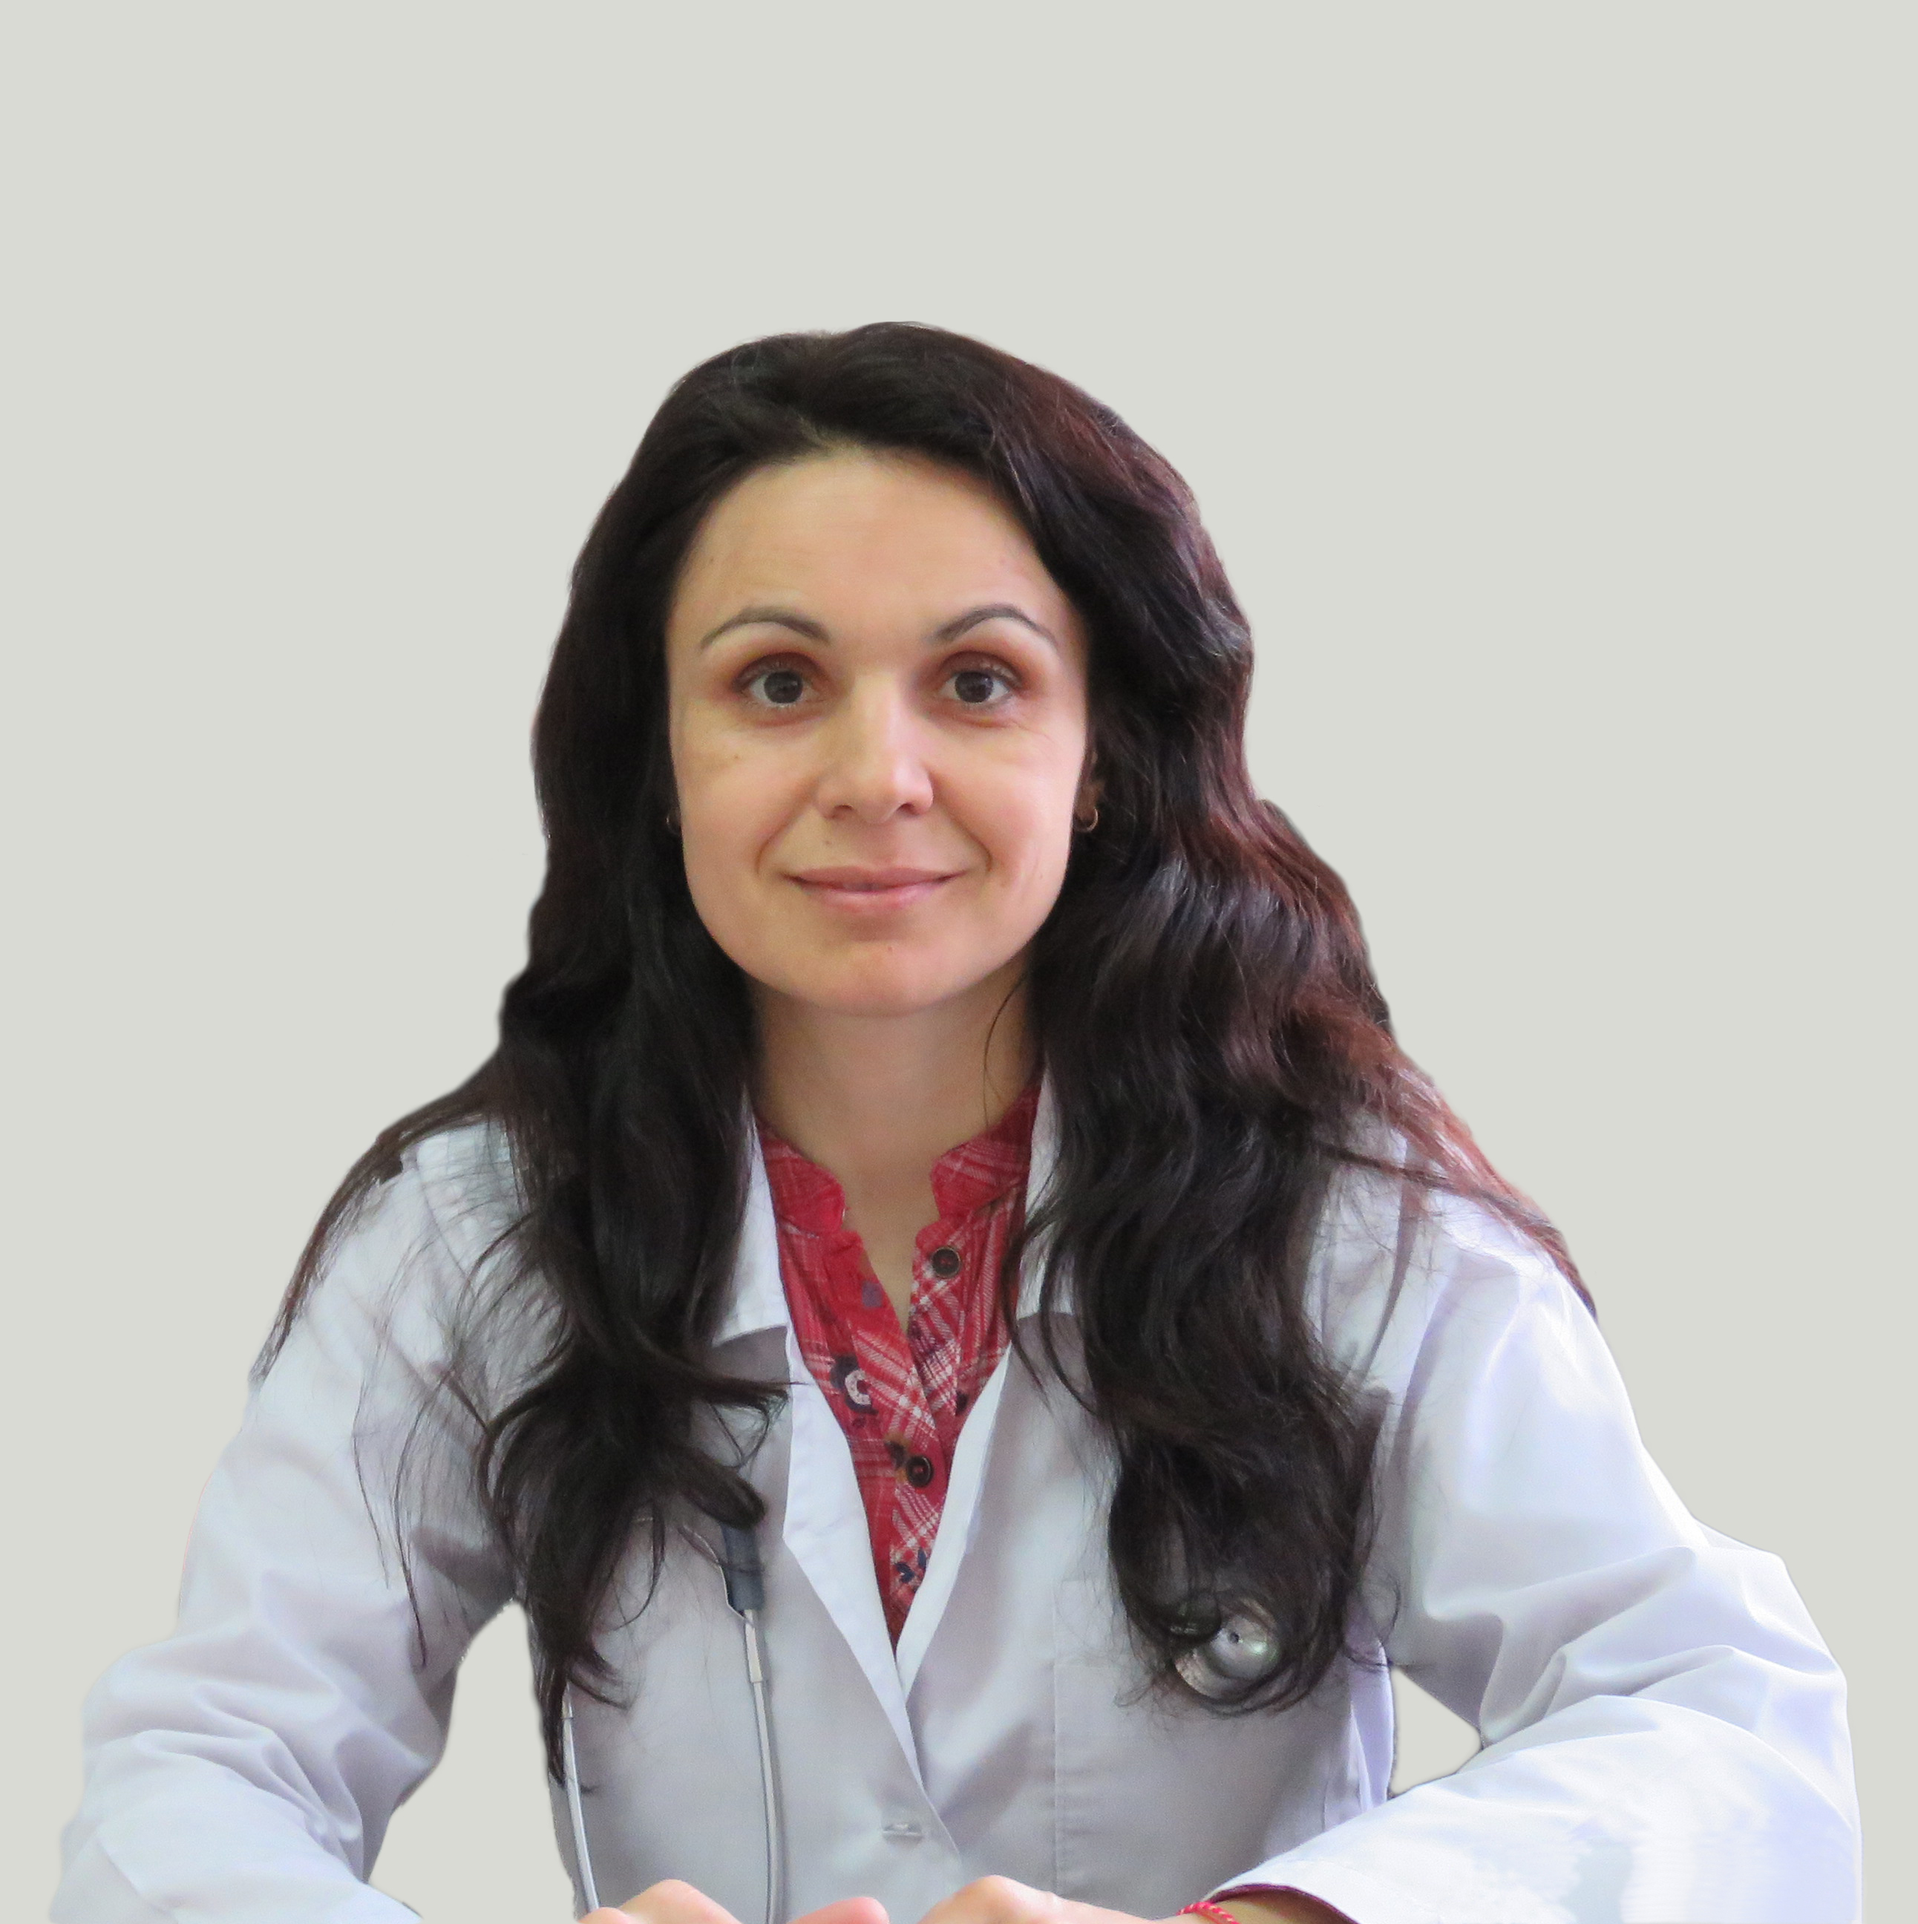
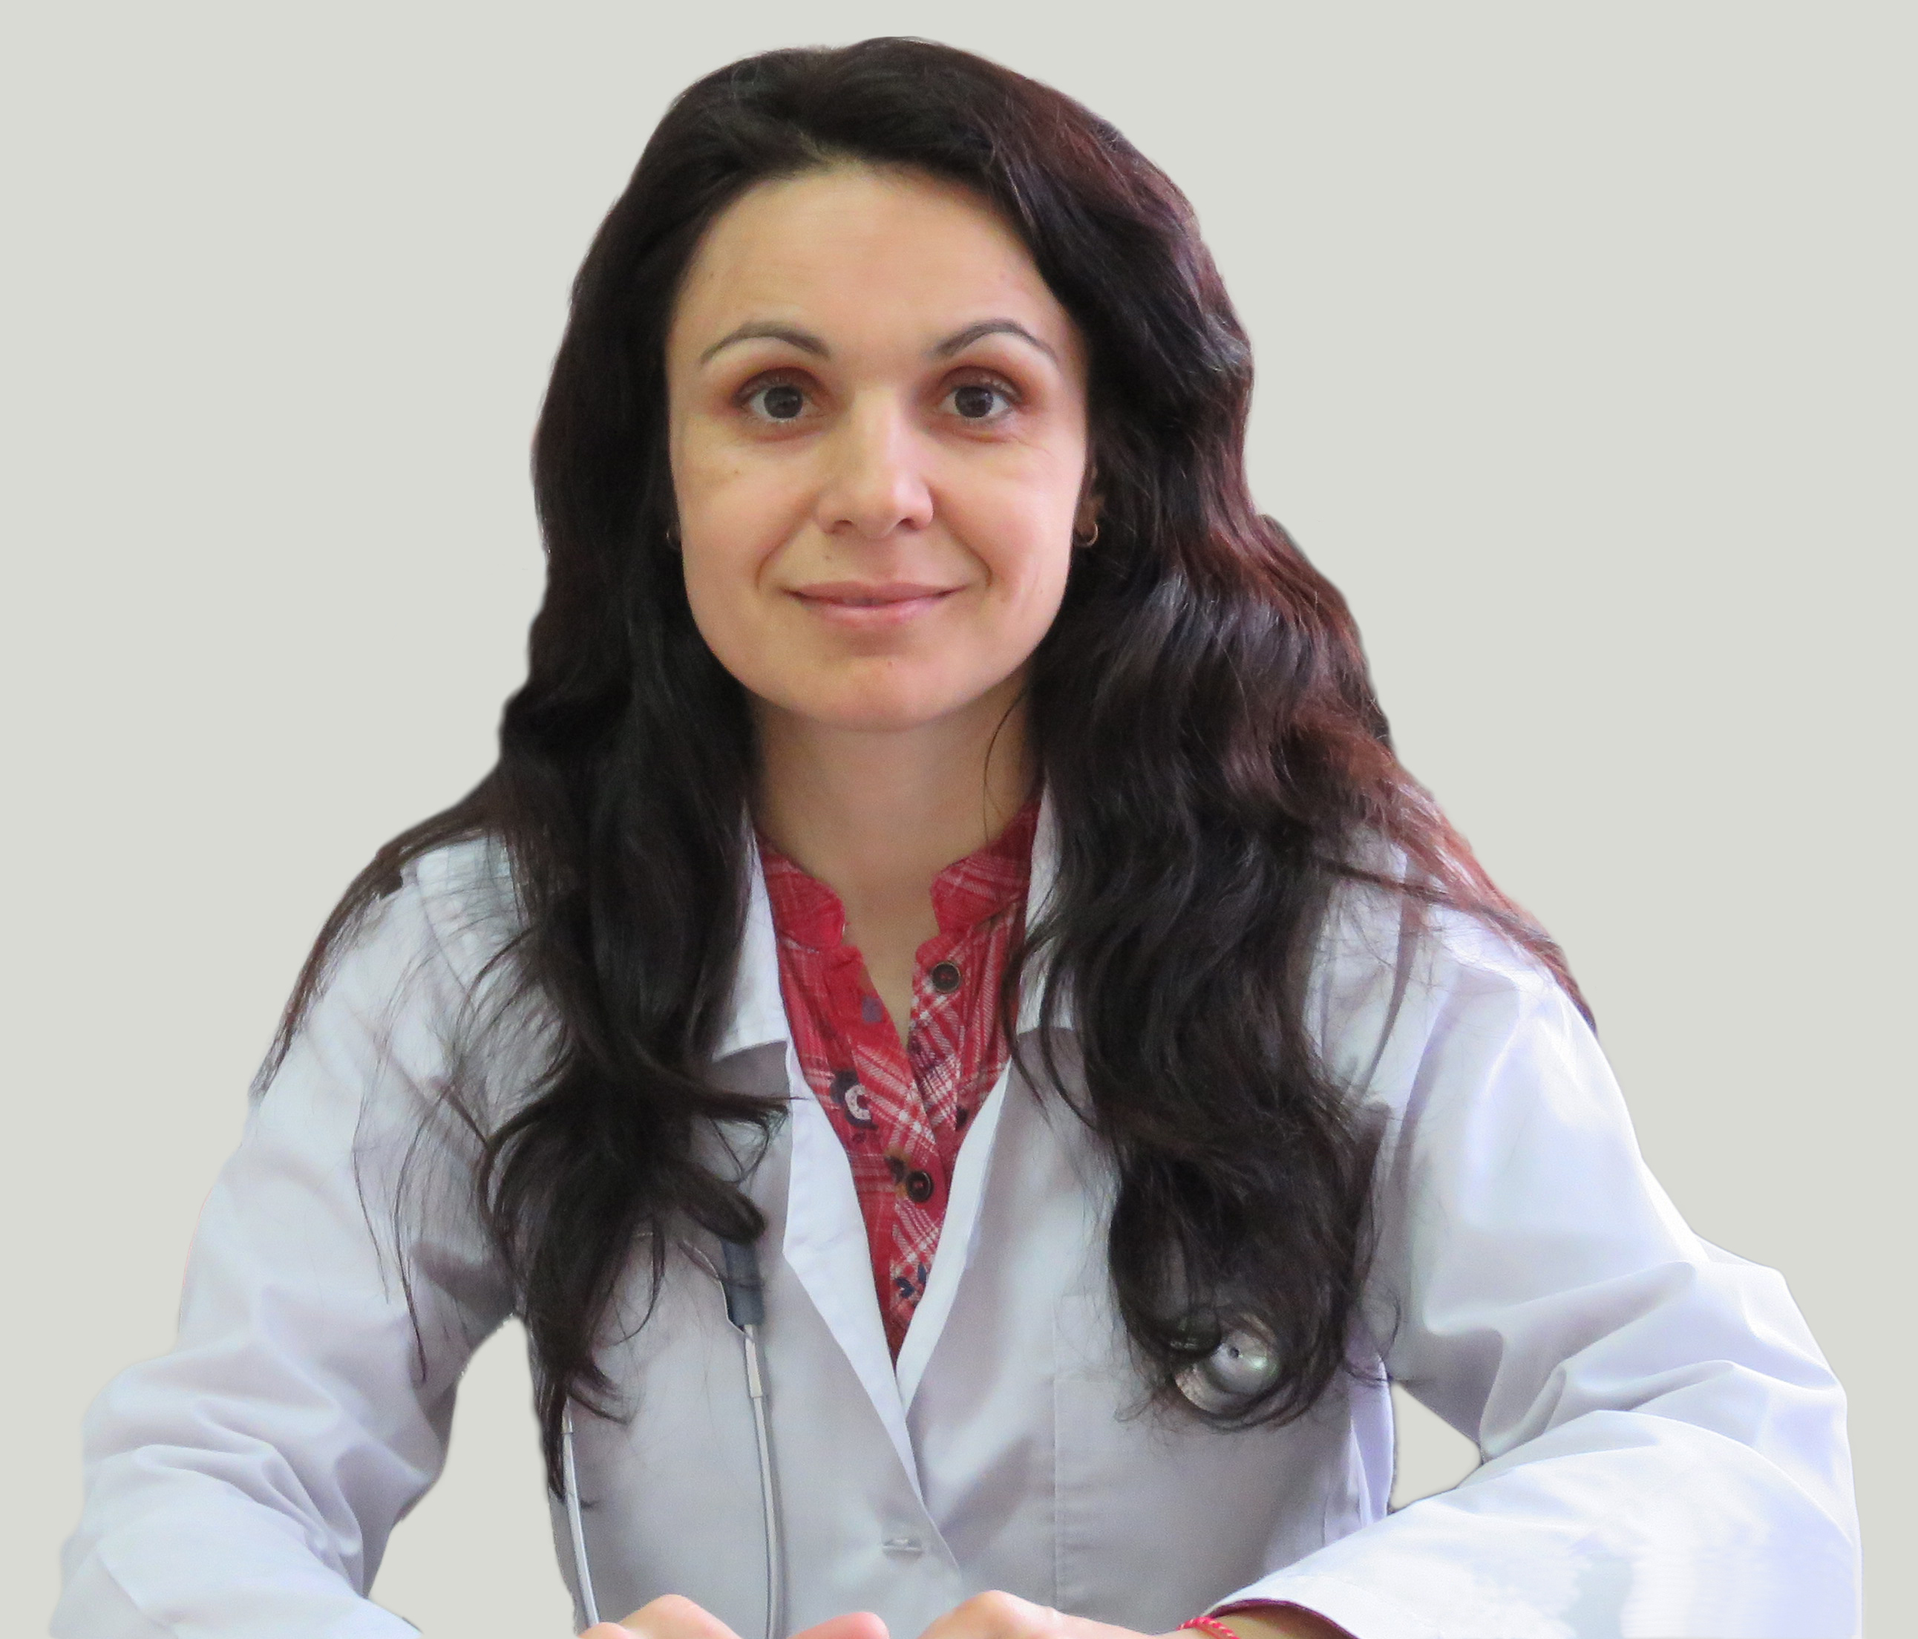
Update

Changed region(s): [[0.0619, 0.0, 0.9598, 1.0], [0.4954, 0.9688, 0.5573, 1.0], [0.3096, 0.9688, 0.3715, 1.0]]

diff --git a/index.html b/index.html
@@ -5,7 +5,7 @@
   <meta charset="utf-8">
   <meta content="width=device-width, initial-scale=1.0" name="viewport">
 
-  <title>Butterfly Bootstrap Template - Index</title>
+  <title>Д-р Диляна Колева</title>
   <meta content="" name="description">
   <meta content="" name="keywords">
 
@@ -46,26 +46,25 @@
 
       <nav id="navbar" class="navbar">
         <ul>
-          <li><a class="nav-link scrollto active" href="#hero">Начало</a></li>
           <li><a class="nav-link scrollto" href="#about">За мен</a></li>
           <li><a class="nav-link scrollto" href="#services">Услуги</a></li>
           <li><a class="nav-link scrollto " href="#gallery">Галерия</a></li>
           <li><a class="nav-link scrollto" href="#contact">Контакти</a></li>
         </ul>
+        <i class="bi bi-list mobile-nav-toggle"></i>
       </nav><!-- .navbar -->
     </div>
   </header><!-- End Header -->
 
-  <!-- ======= Hero Section ======= -->
-  <section id="hero" class="d-flex align-items-center">
-
+  <section id="pic" class="services section-bg">
+    <br><br><br>
     <div class="container">
       <div class="row">
           <img src="assets/img/hero-img.png" class="img-fluid" alt="">
       </div>
     </div>
+  </section>
 
-  </section><!-- End Hero -->
 
   <main id="main">
 

diff --git a/assets/css/style.css b/assets/css/style.css
@@ -399,7 +399,7 @@ h6 {
 # Sections General
 --------------------------------------------------------------*/
 section {
-  padding: 60px 0;
+  padding: 20px 0;
   overflow: hidden;
 }
 
